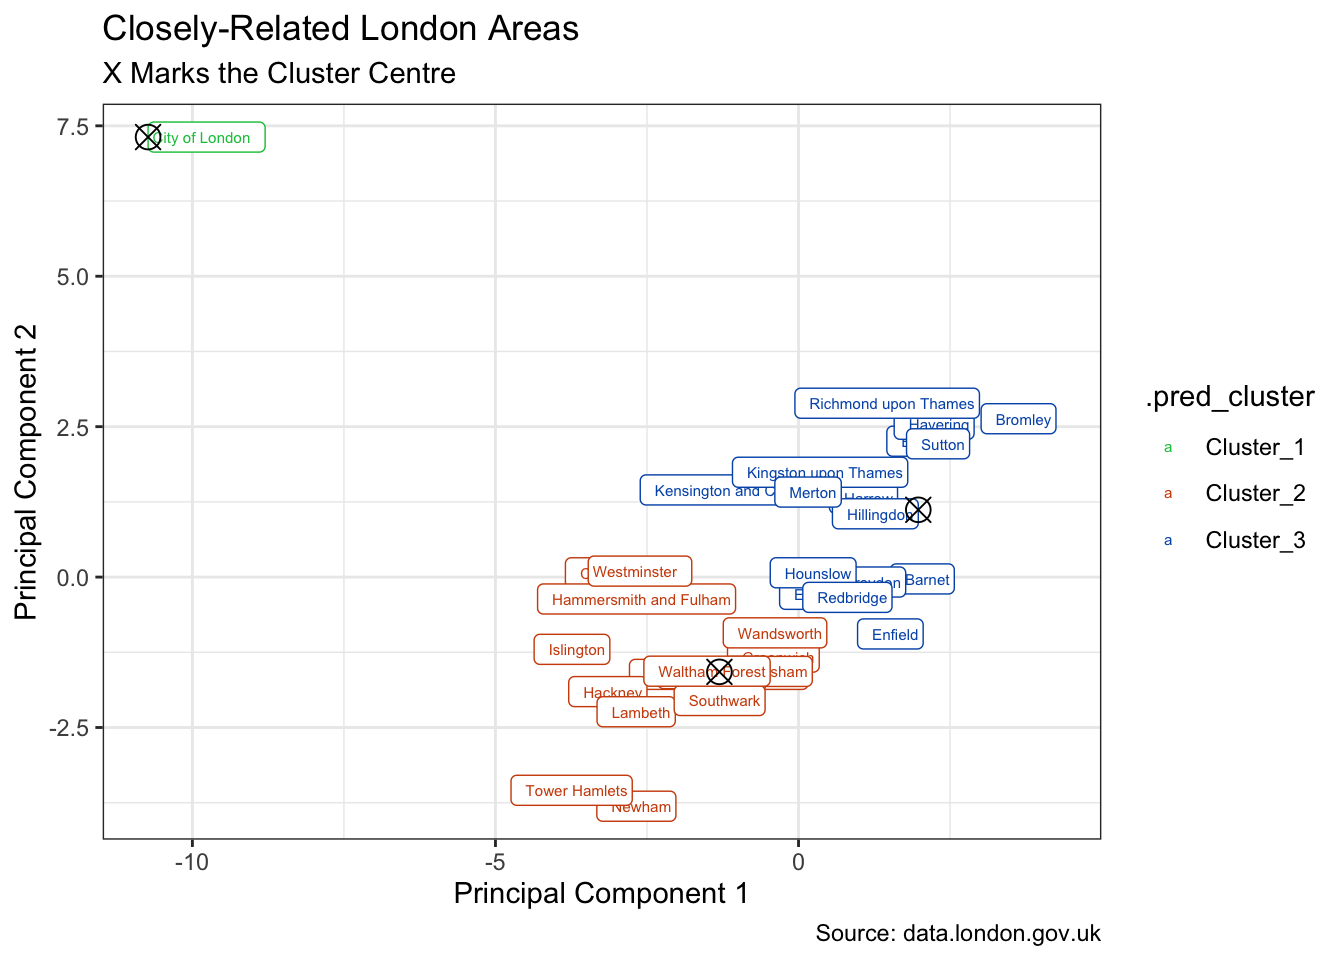
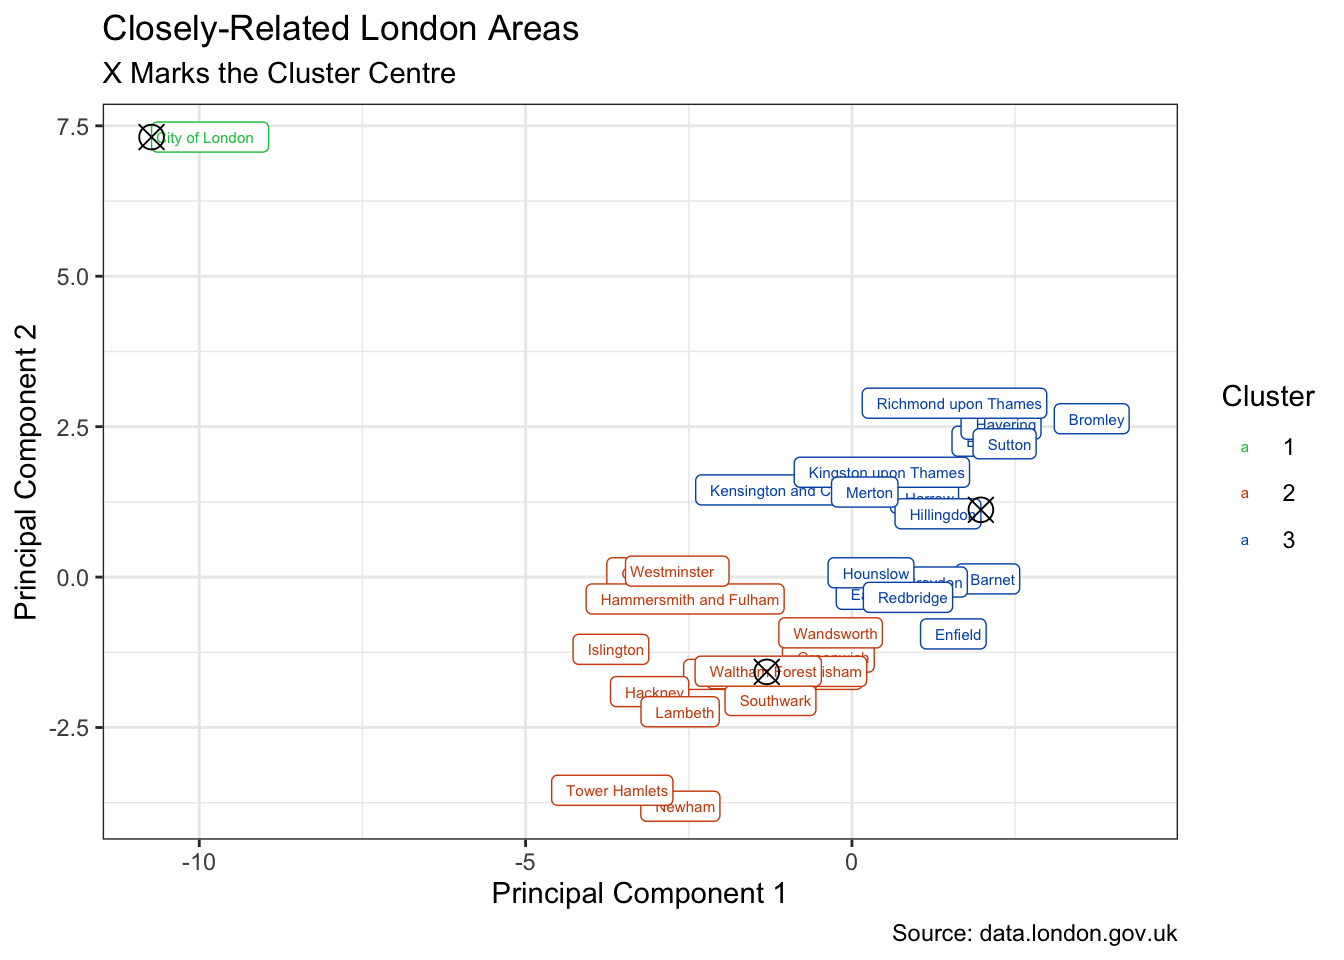
Use anonymous function in map and raw data in tidyclust

diff --git a/_site/project/happiness/index.html b/_site/project/happiness/index.html
@@ -242,7 +242,7 @@ div.csl-indent {
     <div>
     <div class="quarto-title-meta-heading">Modified</div>
     <div class="quarto-title-meta-contents">
-      <p class="date-modified">December 24, 2022</p>
+      <p class="date-modified">December 27, 2022</p>
     </div>
   </div>
     
@@ -428,11 +428,15 @@ div.csl-indent {
 <p>Whilst we do lose ease of interpretation by distilling the information in this way, it is still possible to understand which of the original variables influenced their two-dimensional positioning.</p>
 <p>The axes depicted by the arrows below tell us that <strong>anxiety scores</strong> play a significant role in the placement of the City of London towards the upper-left. <strong>Average age</strong> pushes areas more towards the top. And <strong>happiness</strong> influences the bottom-right.</p>
 <div class="cell">
-<div class="sourceCode" id="cb7"><pre class="downlit sourceCode r code-with-copy"><code class="sourceCode R"><span><span class="va">pattern</span> <span class="op">&lt;-</span> <span class="st">"_\\d{4}|_st.+|_score|_rates|proportion_of_|_\\d{2}_out_of_\\d{2}"</span></span>
+<div class="sourceCode" id="cb7"><pre class="downlit sourceCode r code-with-copy"><code class="sourceCode R"><span><span class="va">pattern</span> <span class="op">&lt;-</span></span>
+<span>  <span class="fu"><a href="https://stringr.tidyverse.org/reference/str_c.html">str_c</a></span><span class="op">(</span><span class="st">"_\\d{4}|_st.+|_score|_rates|^percent(_of)?_|"</span>,</span>
+<span>        <span class="st">"^proportion_of_|^population(_of)?_|^number(_of)?_|"</span>, </span>
+<span>        <span class="st">"_\\d{2}_out_of_\\d{2}|_estimate|_percent"</span><span class="op">)</span></span>
 <span></span>
 <span><span class="va">pca_fit</span> <span class="op">|&gt;</span></span>
 <span>  <span class="fu"><a href="https://generics.r-lib.org/reference/tidy.html">tidy</a></span><span class="op">(</span>matrix <span class="op">=</span> <span class="st">"rotation"</span><span class="op">)</span> <span class="op">|&gt;</span></span>
-<span>  <span class="fu"><a href="https://tidyr.tidyverse.org/reference/pivot_wider.html">pivot_wider</a></span><span class="op">(</span>names_from <span class="op">=</span> <span class="st">"PC"</span>, names_prefix <span class="op">=</span> <span class="st">"PC"</span>, values_from <span class="op">=</span> <span class="st">"value"</span><span class="op">)</span> <span class="op">|&gt;</span></span>
+<span>  <span class="fu"><a href="https://tidyr.tidyverse.org/reference/pivot_wider.html">pivot_wider</a></span><span class="op">(</span>names_from <span class="op">=</span> <span class="st">"PC"</span>, names_prefix <span class="op">=</span> <span class="st">"PC"</span>, </span>
+<span>              values_from <span class="op">=</span> <span class="st">"value"</span><span class="op">)</span> <span class="op">|&gt;</span></span>
 <span>  <span class="fu"><a href="https://dplyr.tidyverse.org/reference/mutate.html">mutate</a></span><span class="op">(</span>column <span class="op">=</span> <span class="fu"><a href="https://stringr.tidyverse.org/reference/str_remove.html">str_remove_all</a></span><span class="op">(</span><span class="va">column</span>, <span class="va">pattern</span><span class="op">)</span><span class="op">)</span> <span class="op">|&gt;</span></span>
 <span>  <span class="fu"><a href="https://ggplot2.tidyverse.org/reference/ggplot.html">ggplot</a></span><span class="op">(</span><span class="fu"><a href="https://ggplot2.tidyverse.org/reference/aes.html">aes</a></span><span class="op">(</span><span class="va">PC1</span>, <span class="va">PC2</span><span class="op">)</span><span class="op">)</span> <span class="op">+</span></span>
 <span>  <span class="fu"><a href="https://ggplot2.tidyverse.org/reference/geom_segment.html">geom_segment</a></span><span class="op">(</span></span>
@@ -481,8 +485,8 @@ div.csl-indent {
 <span><span class="va">kclusts</span> <span class="op">&lt;-</span></span>
 <span>  <span class="fu"><a href="https://tibble.tidyverse.org/reference/tibble.html">tibble</a></span><span class="op">(</span>k <span class="op">=</span> <span class="fl">1</span><span class="op">:</span><span class="fl">6</span><span class="op">)</span> <span class="op">|&gt;</span></span>
 <span>  <span class="fu"><a href="https://dplyr.tidyverse.org/reference/mutate.html">mutate</a></span><span class="op">(</span></span>
-<span>    kclust <span class="op">=</span> <span class="fu"><a href="https://purrr.tidyverse.org/reference/map.html">map</a></span><span class="op">(</span><span class="va">k</span>, <span class="op">~</span> <span class="fu"><a href="https://rdrr.io/r/stats/kmeans.html">kmeans</a></span><span class="op">(</span><span class="va">pca_augmented</span> <span class="op">|&gt;</span> </span>
-<span>                               <span class="fu"><a href="https://dplyr.tidyverse.org/reference/select.html">select</a></span><span class="op">(</span><span class="va">.fittedPC1</span>, <span class="va">.fittedPC2</span><span class="op">)</span>, <span class="va">.x</span><span class="op">)</span><span class="op">)</span>,</span>
+<span>    kclust <span class="op">=</span> <span class="fu"><a href="https://purrr.tidyverse.org/reference/map.html">map</a></span><span class="op">(</span><span class="va">k</span>, \<span class="op">(</span><span class="va">k</span><span class="op">)</span> <span class="fu"><a href="https://rdrr.io/r/stats/kmeans.html">kmeans</a></span><span class="op">(</span></span>
+<span>      <span class="va">pca_augmented</span> <span class="op">|&gt;</span> <span class="fu"><a href="https://dplyr.tidyverse.org/reference/select.html">select</a></span><span class="op">(</span><span class="va">.fittedPC1</span>, <span class="va">.fittedPC2</span><span class="op">)</span>, <span class="va">k</span><span class="op">)</span><span class="op">)</span>,</span>
 <span>    tidied <span class="op">=</span> <span class="fu"><a href="https://purrr.tidyverse.org/reference/map.html">map</a></span><span class="op">(</span><span class="va">kclust</span>, <span class="va">tidy</span><span class="op">)</span>,</span>
 <span>    glanced <span class="op">=</span> <span class="fu"><a href="https://purrr.tidyverse.org/reference/map.html">map</a></span><span class="op">(</span><span class="va">kclust</span>, <span class="va">glance</span><span class="op">)</span>,</span>
 <span>    augmented <span class="op">=</span> <span class="fu"><a href="https://purrr.tidyverse.org/reference/map.html">map</a></span><span class="op">(</span><span class="va">kclust</span>, <span class="va">augment</span>, <span class="va">pca_augmented</span><span class="op">)</span></span>
@@ -553,7 +557,12 @@ div.csl-indent {
 <div class="sourceCode" id="cb12"><pre class="downlit sourceCode r code-with-copy"><code class="sourceCode R"><span><span class="va">kmeans_spec</span> <span class="op">&lt;-</span> <span class="fu"><a href="https://rdrr.io/pkg/tidyclust/man/k_means.html">k_means</a></span><span class="op">(</span>num_clusters <span class="op">=</span> <span class="fu"><a href="https://hardhat.tidymodels.org/reference/tune.html">tune</a></span><span class="op">(</span><span class="op">)</span><span class="op">)</span> <span class="op">|&gt;</span> </span>
 <span>  <span class="fu"><a href="https://parsnip.tidymodels.org/reference/set_engine.html">set_engine</a></span><span class="op">(</span><span class="st">"stats"</span>, algorithm <span class="op">=</span> <span class="st">"Hartigan-Wong"</span><span class="op">)</span></span>
 <span></span>
-<span><span class="va">kmeans_rec</span> <span class="op">&lt;-</span> <span class="fu">recipe</span><span class="op">(</span><span class="op">~</span> <span class="va">.fittedPC1</span> <span class="op">+</span> <span class="va">.fittedPC2</span>, data <span class="op">=</span> <span class="va">pca_augmented</span><span class="op">)</span></span>
+<span><span class="va">kmeans_rec</span> <span class="op">&lt;-</span> <span class="va">raw_df</span> <span class="op">|&gt;</span> </span>
+<span>  <span class="fu"><a href="https://dplyr.tidyverse.org/reference/select.html">select</a></span><span class="op">(</span><span class="fu">where</span><span class="op">(</span><span class="va">is.numeric</span><span class="op">)</span><span class="op">)</span> <span class="op">|&gt;</span> </span>
+<span>  <span class="fu">recipe</span><span class="op">(</span><span class="op">~</span> <span class="va">.</span><span class="op">)</span> <span class="op">|&gt;</span> </span>
+<span>  <span class="fu">step_zv</span><span class="op">(</span><span class="fu">all_predictors</span><span class="op">(</span><span class="op">)</span><span class="op">)</span> <span class="op">|&gt;</span> </span>
+<span>  <span class="fu">step_normalize</span><span class="op">(</span><span class="fu">all_predictors</span><span class="op">(</span><span class="op">)</span><span class="op">)</span> <span class="op">|&gt;</span> </span>
+<span>  <span class="fu">step_pca</span><span class="op">(</span><span class="fu">all_predictors</span><span class="op">(</span><span class="op">)</span>, threshold <span class="op">=</span> <span class="fl">0.9</span><span class="op">)</span></span>
 <span></span>
 <span><span class="va">kmeans_wflow</span> <span class="op">&lt;-</span> <span class="fu">workflow</span><span class="op">(</span><span class="op">)</span> <span class="op">|&gt;</span></span>
 <span>  <span class="fu">add_model</span><span class="op">(</span><span class="va">kmeans_spec</span><span class="op">)</span> <span class="op">|&gt;</span></span>
@@ -598,12 +607,14 @@ div.csl-indent {
 <span>  <span class="fu"><a href="https://generics.r-lib.org/reference/fit.html">fit</a></span><span class="op">(</span><span class="va">pca_augmented</span><span class="op">)</span> </span>
 <span></span>
 <span><span class="va">kmeans_clust</span> <span class="op">&lt;-</span> <span class="va">kmeans_fit</span> <span class="op">|&gt;</span> </span>
-<span>  <span class="fu"><a href="https://rdrr.io/pkg/tidyclust/man/extract_centroids.html">extract_centroids</a></span><span class="op">(</span><span class="op">)</span></span>
+<span>  <span class="fu"><a href="https://rdrr.io/pkg/tidyclust/man/extract_centroids.html">extract_centroids</a></span><span class="op">(</span><span class="op">)</span> <span class="op">|&gt;</span> </span>
+<span>  <span class="fu"><a href="https://dplyr.tidyverse.org/reference/rename.html">rename_with</a></span><span class="op">(</span><span class="op">~</span> <span class="fu"><a href="https://stringr.tidyverse.org/reference/str_c.html">str_c</a></span><span class="op">(</span><span class="st">".fitted"</span>, <span class="va">.</span><span class="op">)</span>, <span class="fu"><a href="https://tidyselect.r-lib.org/reference/starts_with.html">starts_with</a></span><span class="op">(</span><span class="st">"PC"</span><span class="op">)</span><span class="op">)</span></span>
 <span></span>
 <span><span class="va">kmeans_aug</span> <span class="op">&lt;-</span> <span class="va">kmeans_fit</span> <span class="op">|&gt;</span> </span>
 <span>  <span class="fu"><a href="https://generics.r-lib.org/reference/augment.html">augment</a></span><span class="op">(</span><span class="va">pca_augmented</span><span class="op">)</span></span>
 <span></span>
 <span><span class="va">kmeans_aug</span> <span class="op">|&gt;</span></span>
+<span>  <span class="fu"><a href="https://dplyr.tidyverse.org/reference/mutate.html">mutate</a></span><span class="op">(</span>.pred_cluster <span class="op">=</span> <span class="fu"><a href="https://stringr.tidyverse.org/reference/str_remove.html">str_remove</a></span><span class="op">(</span><span class="va">.pred_cluster</span>, <span class="st">"Cluster_"</span><span class="op">)</span><span class="op">)</span> <span class="op">|&gt;</span> </span>
 <span>  <span class="fu"><a href="https://ggplot2.tidyverse.org/reference/ggplot.html">ggplot</a></span><span class="op">(</span><span class="fu"><a href="https://ggplot2.tidyverse.org/reference/aes.html">aes</a></span><span class="op">(</span><span class="va">.fittedPC1</span>, <span class="va">.fittedPC2</span><span class="op">)</span><span class="op">)</span> <span class="op">+</span></span>
 <span>  <span class="fu"><a href="https://ggplot2.tidyverse.org/reference/geom_text.html">geom_label</a></span><span class="op">(</span><span class="fu"><a href="https://ggplot2.tidyverse.org/reference/aes.html">aes</a></span><span class="op">(</span>label <span class="op">=</span> <span class="va">area_name</span>, colour <span class="op">=</span> <span class="va">.pred_cluster</span><span class="op">)</span>,</span>
 <span>             size <span class="op">=</span> <span class="fl">2</span>, hjust <span class="op">=</span> <span class="st">"inward"</span><span class="op">)</span> <span class="op">+</span></span>
@@ -613,6 +624,7 @@ div.csl-indent {
 <span>    title <span class="op">=</span> <span class="st">"Closely-Related London Areas"</span>, fill <span class="op">=</span> <span class="st">"Cluster"</span>,</span>
 <span>    subtitle <span class="op">=</span> <span class="st">"X Marks the Cluster Centre"</span>,</span>
 <span>    x <span class="op">=</span> <span class="st">"Principal Component 1"</span>, y <span class="op">=</span> <span class="st">"Principal Component 2"</span>,</span>
+<span>    colour <span class="op">=</span> <span class="st">"Cluster"</span>,</span>
 <span>    caption <span class="op">=</span> <span class="st">"Source: data.london.gov.uk"</span></span>
 <span>  <span class="op">)</span></span></code><button title="Copy to Clipboard" class="code-copy-button"><i class="bi"></i></button></pre></div>
 <div class="cell-output-display">
@@ -670,11 +682,11 @@ div.csl-indent {
 <tbody>
 <tr class="odd">
 <td style="text-align: left;">base</td>
-<td style="text-align: left;">as.character[8]; c[10]; is.character[1]; is.na[1]; is.numeric[1]; library[10]; mean[1]; seq[1]; set.seed[1]; sum[1]</td>
+<td style="text-align: left;">as.character[8]; c[10]; is.character[1]; is.na[1]; is.numeric[2]; library[10]; mean[1]; seq[1]; set.seed[1]; sum[1]</td>
 </tr>
 <tr class="even">
 <td style="text-align: left;">dplyr</td>
-<td style="text-align: left;">filter[5]; across[1]; arrange[1]; cur_data[1]; desc[1]; if_else[3]; left_join[1]; mutate[7]; na_if[1]; recode[2]; rename[1]; rename_with[1]; rowwise[1]; select[5]</td>
+<td style="text-align: left;">filter[5]; across[1]; arrange[1]; cur_data[1]; desc[1]; if_else[3]; left_join[1]; mutate[8]; na_if[1]; recode[2]; rename[1]; rename_with[2]; rowwise[1]; select[6]</td>
 </tr>
 <tr class="odd">
 <td style="text-align: left;">forcats</td>
@@ -706,7 +718,7 @@ div.csl-indent {
 </tr>
 <tr class="even">
 <td style="text-align: left;">recipes</td>
-<td style="text-align: left;">recipe[1]</td>
+<td style="text-align: left;">all_predictors[3]; recipe[1]; step_normalize[1]; step_pca[1]; step_zv[1]</td>
 </tr>
 <tr class="odd">
 <td style="text-align: left;">rsample</td>
@@ -714,7 +726,7 @@ div.csl-indent {
 </tr>
 <tr class="even">
 <td style="text-align: left;">scales</td>
-<td style="text-align: left;">label_percent[1]; percent[2]</td>
+<td style="text-align: left;">label_percent[1]; number[1]; percent[3]</td>
 </tr>
 <tr class="odd">
 <td style="text-align: left;">sf</td>
@@ -726,7 +738,7 @@ div.csl-indent {
 </tr>
 <tr class="odd">
 <td style="text-align: left;">stringr</td>
-<td style="text-align: left;">str_remove[2]; str_remove_all[1]; str_starts[1]</td>
+<td style="text-align: left;">str_c[2]; str_remove[3]; str_remove_all[1]; str_starts[1]</td>
 </tr>
 <tr class="even">
 <td style="text-align: left;">tibble</td>
@@ -738,7 +750,7 @@ div.csl-indent {
 </tr>
 <tr class="even">
 <td style="text-align: left;">tidyr</td>
-<td style="text-align: left;">crossing[1]; pivot_longer[2]; pivot_wider[1]; unnest[3]</td>
+<td style="text-align: left;">crossing[1]; pivot_longer[2]; pivot_wider[1]; population[1]; unnest[3]</td>
 </tr>
 <tr class="odd">
 <td style="text-align: left;">tidytext</td>
